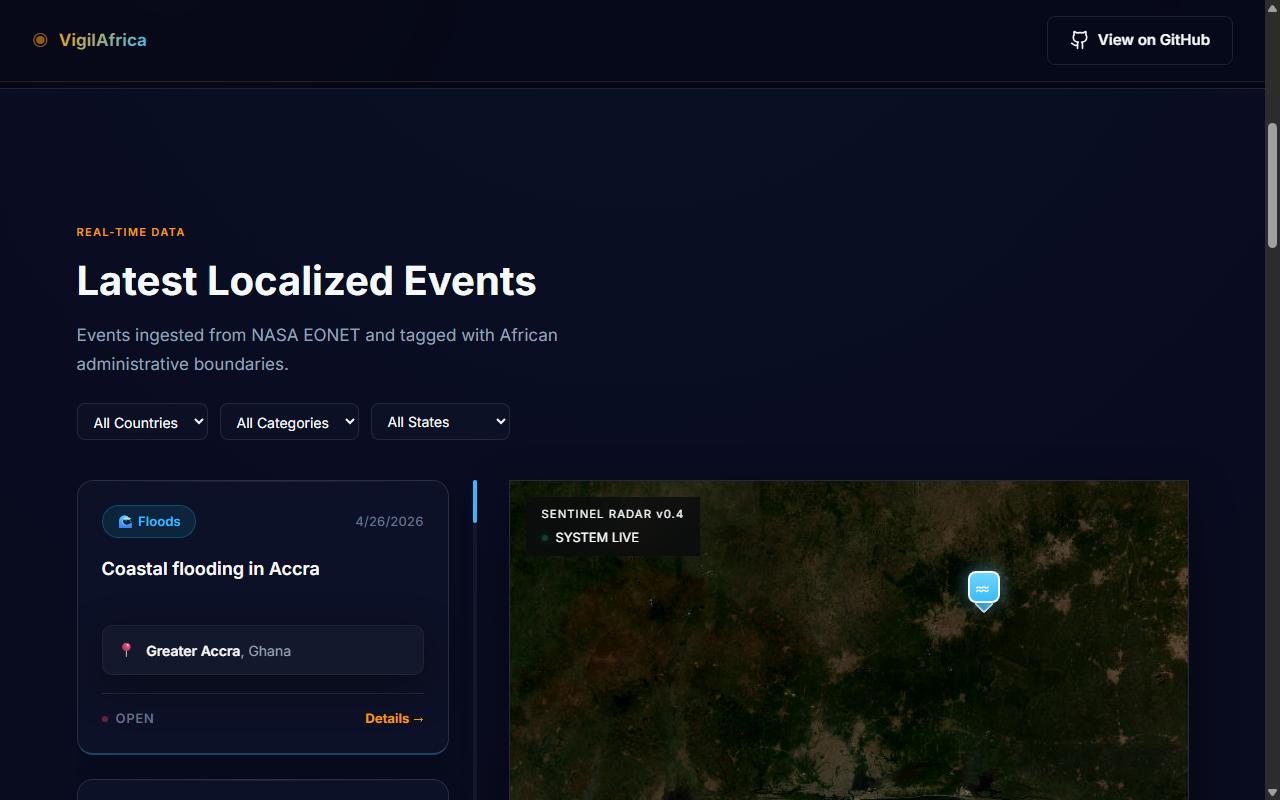
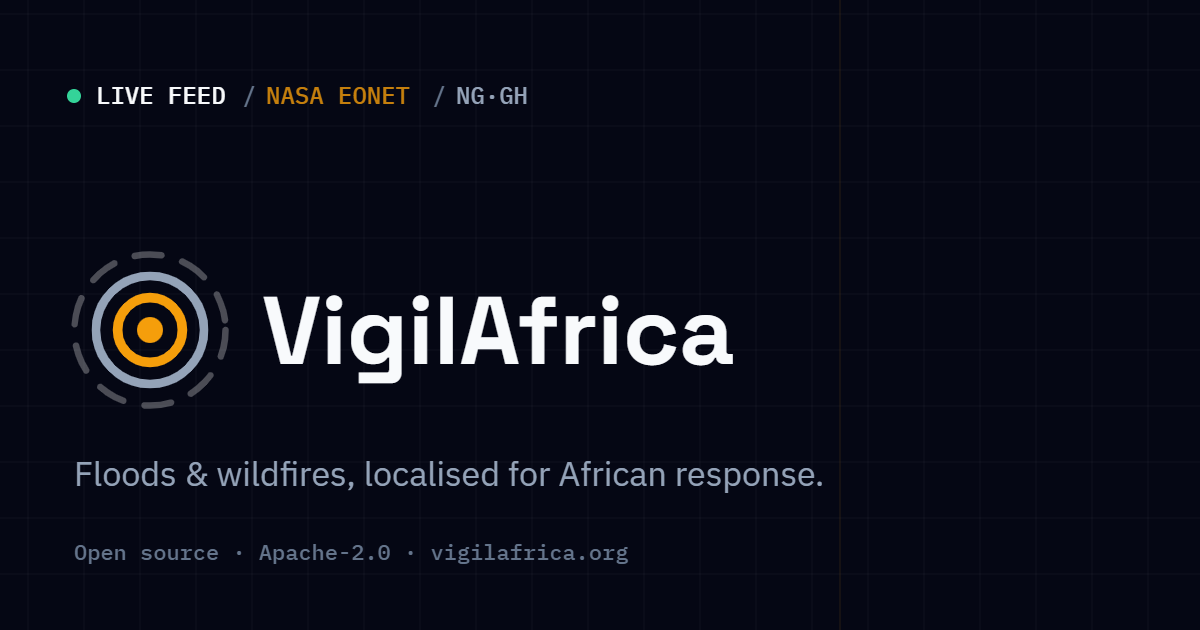
feat(web): identity asset suite from the Epicenter Contours mark (ADR-016)
Phase C of feat-ground-truth-identity:
- favicon.svg: replace the leftover template purple-bolt with the favicon cut
  of the mark (works on light + dark tabs); add a slim PNG-frame favicon.ico
  (16/32/48, 4.5KB) and a 180px apple-touch-icon.
- social-card.png: regenerate the 1200x630 OG/Twitter card in the Ground
  Truth identity (graticule + amber meridian, LIVE FEED mono readout, mark +
  Space Grotesk wordmark); existing OG meta keeps pointing at the same file.
- index.html: wire the icon links and REMOVE the Google-Fonts Inter <link> —
  fonts are self-hosted per ADR-015, this was a leftover runtime CDN call.
- README: new identity banner (docs/screenshots/readme-banner.png) + drop the
  emoji from the h1.
- docs/brand-assets.md: provenance + regeneration notes for every binary (R2).
Rasters rendered via canvas in-app so the real self-hosted fonts are used.
Build + eslint(0) + vitest 46/46 green.

diff --git a/web/index.html b/web/index.html
@@ -29,13 +29,12 @@
     <!-- Release feed (GitHub releases atom) -->
     <link rel="alternate" type="application/rss+xml" title="VigilAfrica Releases" href="https://github.com/didi-rare/vigilafrica/releases.atom" />
 
-    <!-- Favicon placeholder -->
+    <!-- Identity: Epicenter Contours mark (ADR-016) -->
     <link rel="icon" type="image/svg+xml" href="/favicon.svg" />
+    <link rel="icon" type="image/x-icon" sizes="16x16 32x32 48x48" href="/favicon.ico" />
+    <link rel="apple-touch-icon" sizes="180x180" href="/apple-touch-icon.png" />
 
-    <!-- Typography: Inter from Google Fonts -->
-    <link rel="preconnect" href="https://fonts.googleapis.com" />
-    <link rel="preconnect" href="https://fonts.gstatic.com" crossorigin />
-    <link href="https://fonts.googleapis.com/css2?family=Inter:wght@400;500;600;700;800&display=swap" rel="stylesheet" />
+    <!-- Typography is self-hosted via @fontsource (ADR-015) — no font CDN. -->
 
     <!--
       Self-hosted Umami analytics tracker (chore-analytics-and-feedback).

diff --git a/docs/brand-assets.md b/docs/brand-assets.md
@@ -1,0 +1,22 @@
+# Brand Assets — Provenance & Regeneration
+
+All identity assets derive from the **Epicenter Contours** mark (ADR-016).
+Vector source of truth for the mark geometry: `web/src/components/BrandMark.tsx`
+(app) and `web/public/favicon.svg` (favicon cut — dashed outer contour dropped
+below 24px per the ADR).
+
+| Asset | Source / regeneration |
+| --- | --- |
+| `web/public/favicon.svg` | Hand-authored vector (the favicon cut). Edit directly. |
+| `web/public/favicon.ico` | 16/32/48 PNG renders of `favicon.svg`, wrapped as PNG-frame ICO (Vista+/all modern browsers). |
+| `web/public/apple-touch-icon.png` | 180×180 canvas render: navy `#050714` ground + the full mark (with dashed contour). |
+| `web/public/social-card.png` | 1200×630 canvas render: navy ground, 56px graticule grid + amber meridian, mono LIVE FEED readout, mark + Space Grotesk wordmark + Plex Sans tagline. |
+| `docs/screenshots/readme-banner.png` | 1280×320 canvas render, same composition condensed. |
+
+**Regeneration:** the raster assets are drawn with the Canvas API in a browser
+running the app (so the real self-hosted fonts — Space Grotesk / IBM Plex — are
+used), exported via `canvas.toDataURL('image/png')`. Colours are the token
+values: amber `#f59e0b` (`--amber-500`), slate `#94a3b8` (`--slate-400`), navy
+`#050714` (`--navy-950`). If the mark or palette changes, re-render at the same
+dimensions and replace the binaries in place (filenames are load-bearing —
+`social-card.png` is referenced by the OG/Twitter meta in `web/index.html`).

diff --git a/README.md b/README.md
@@ -1,4 +1,6 @@
-# VigilAfrica 🌍
+![VigilAfrica — floods & wildfires, localised for African response](docs/screenshots/readme-banner.png)
+
+# VigilAfrica
 
 **VigilAfrica** is an open-source effort to make natural event data more understandable and locally relevant across Africa.
 